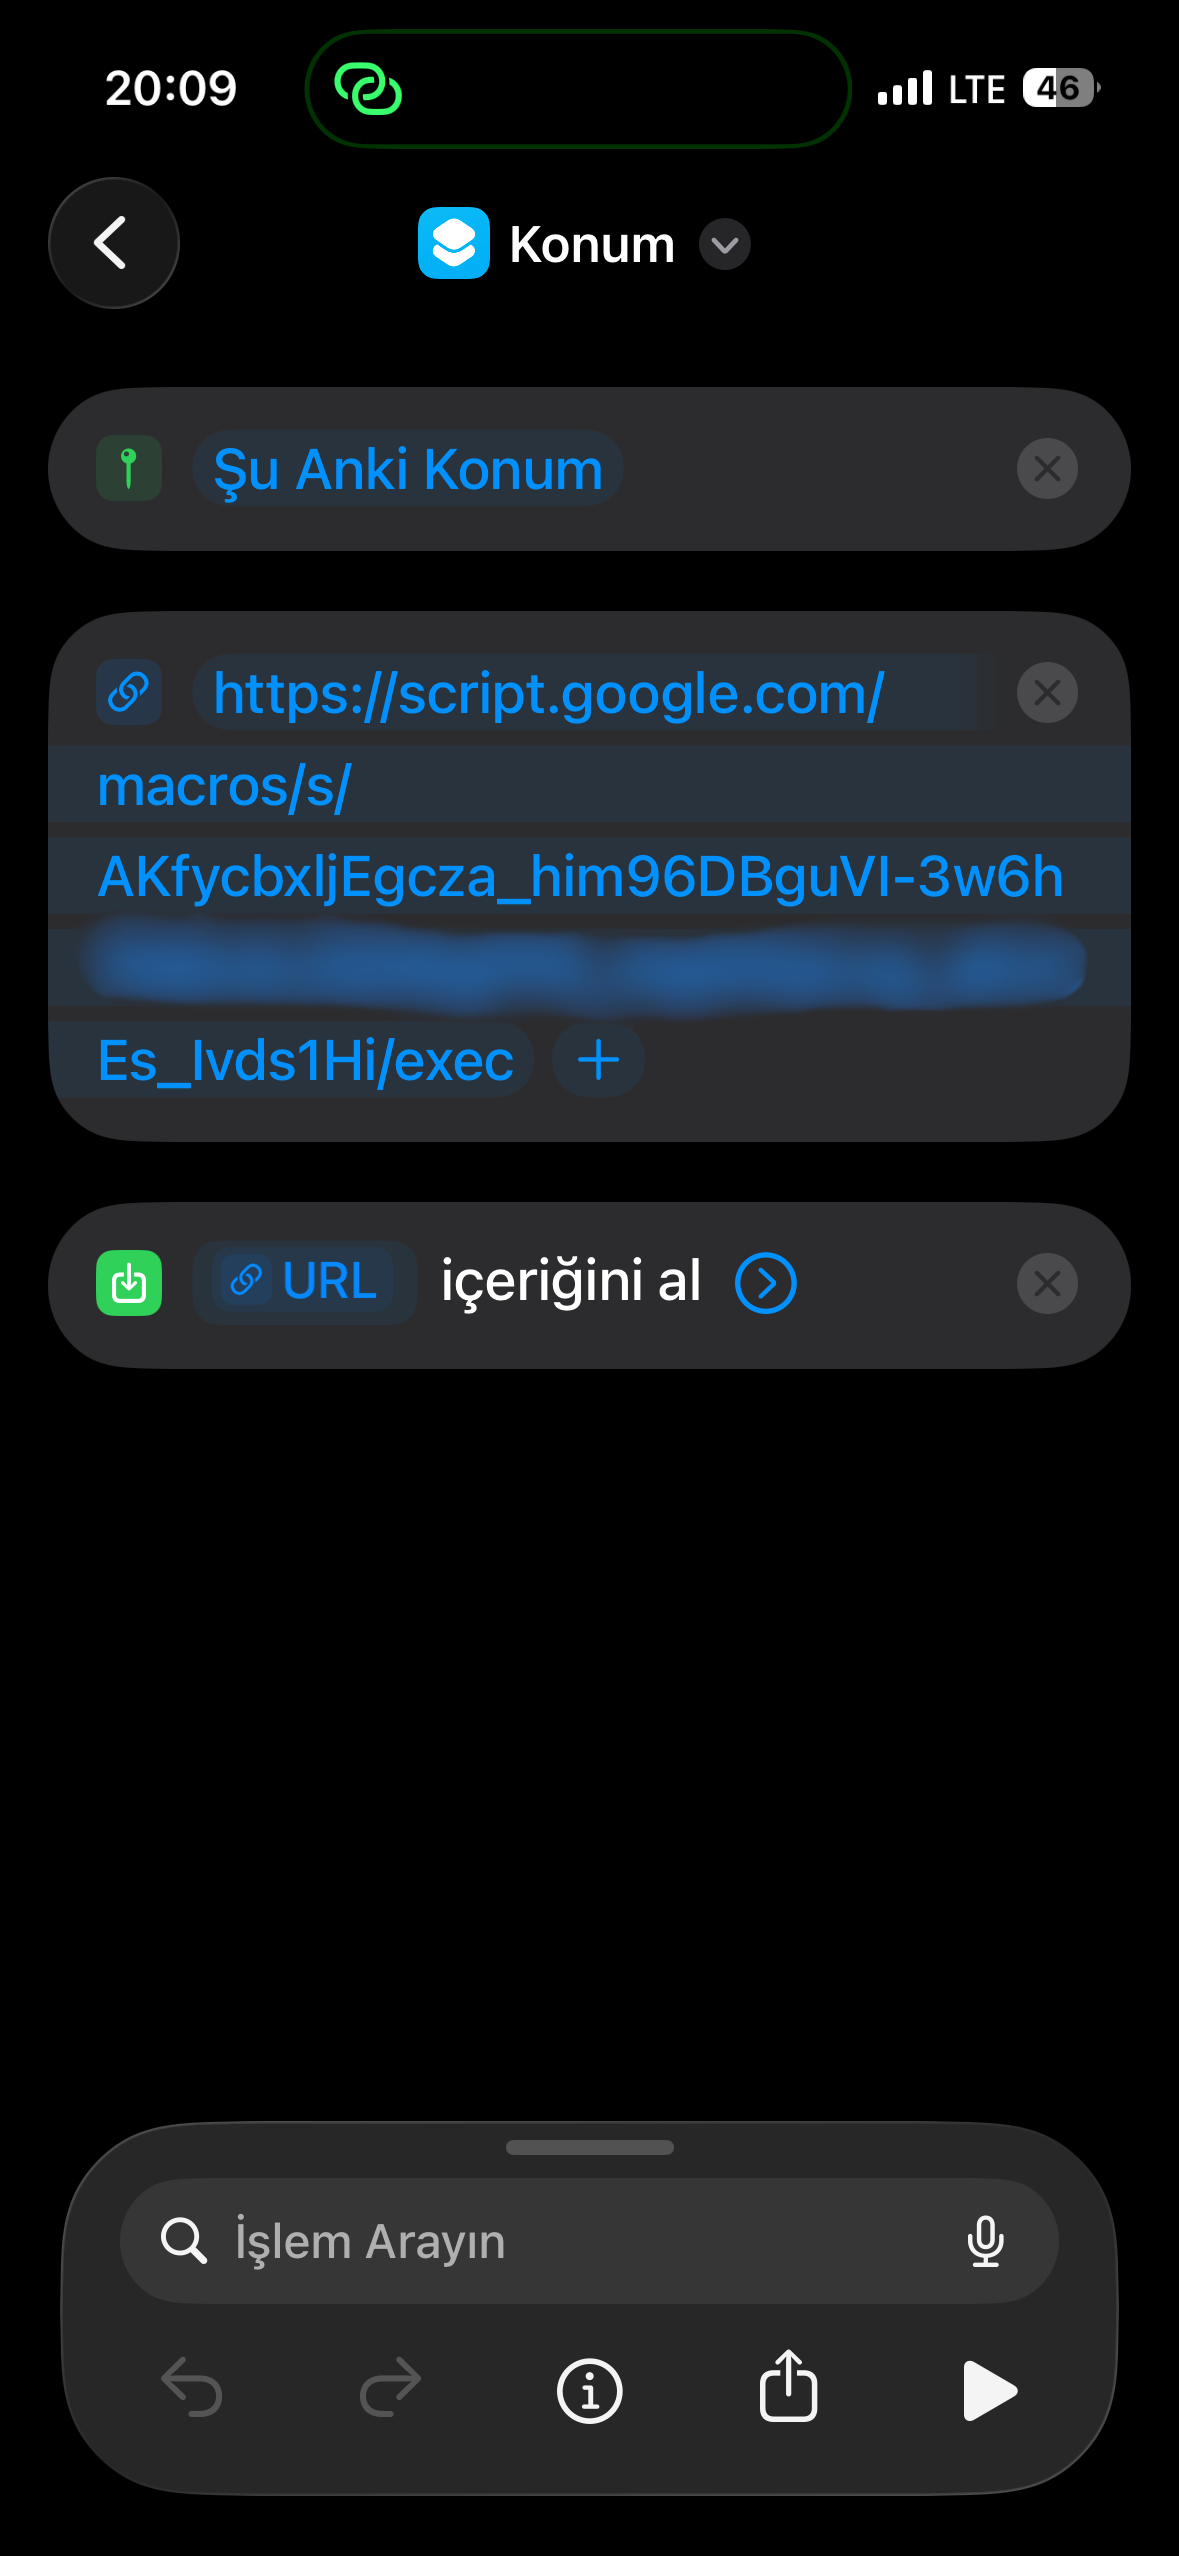
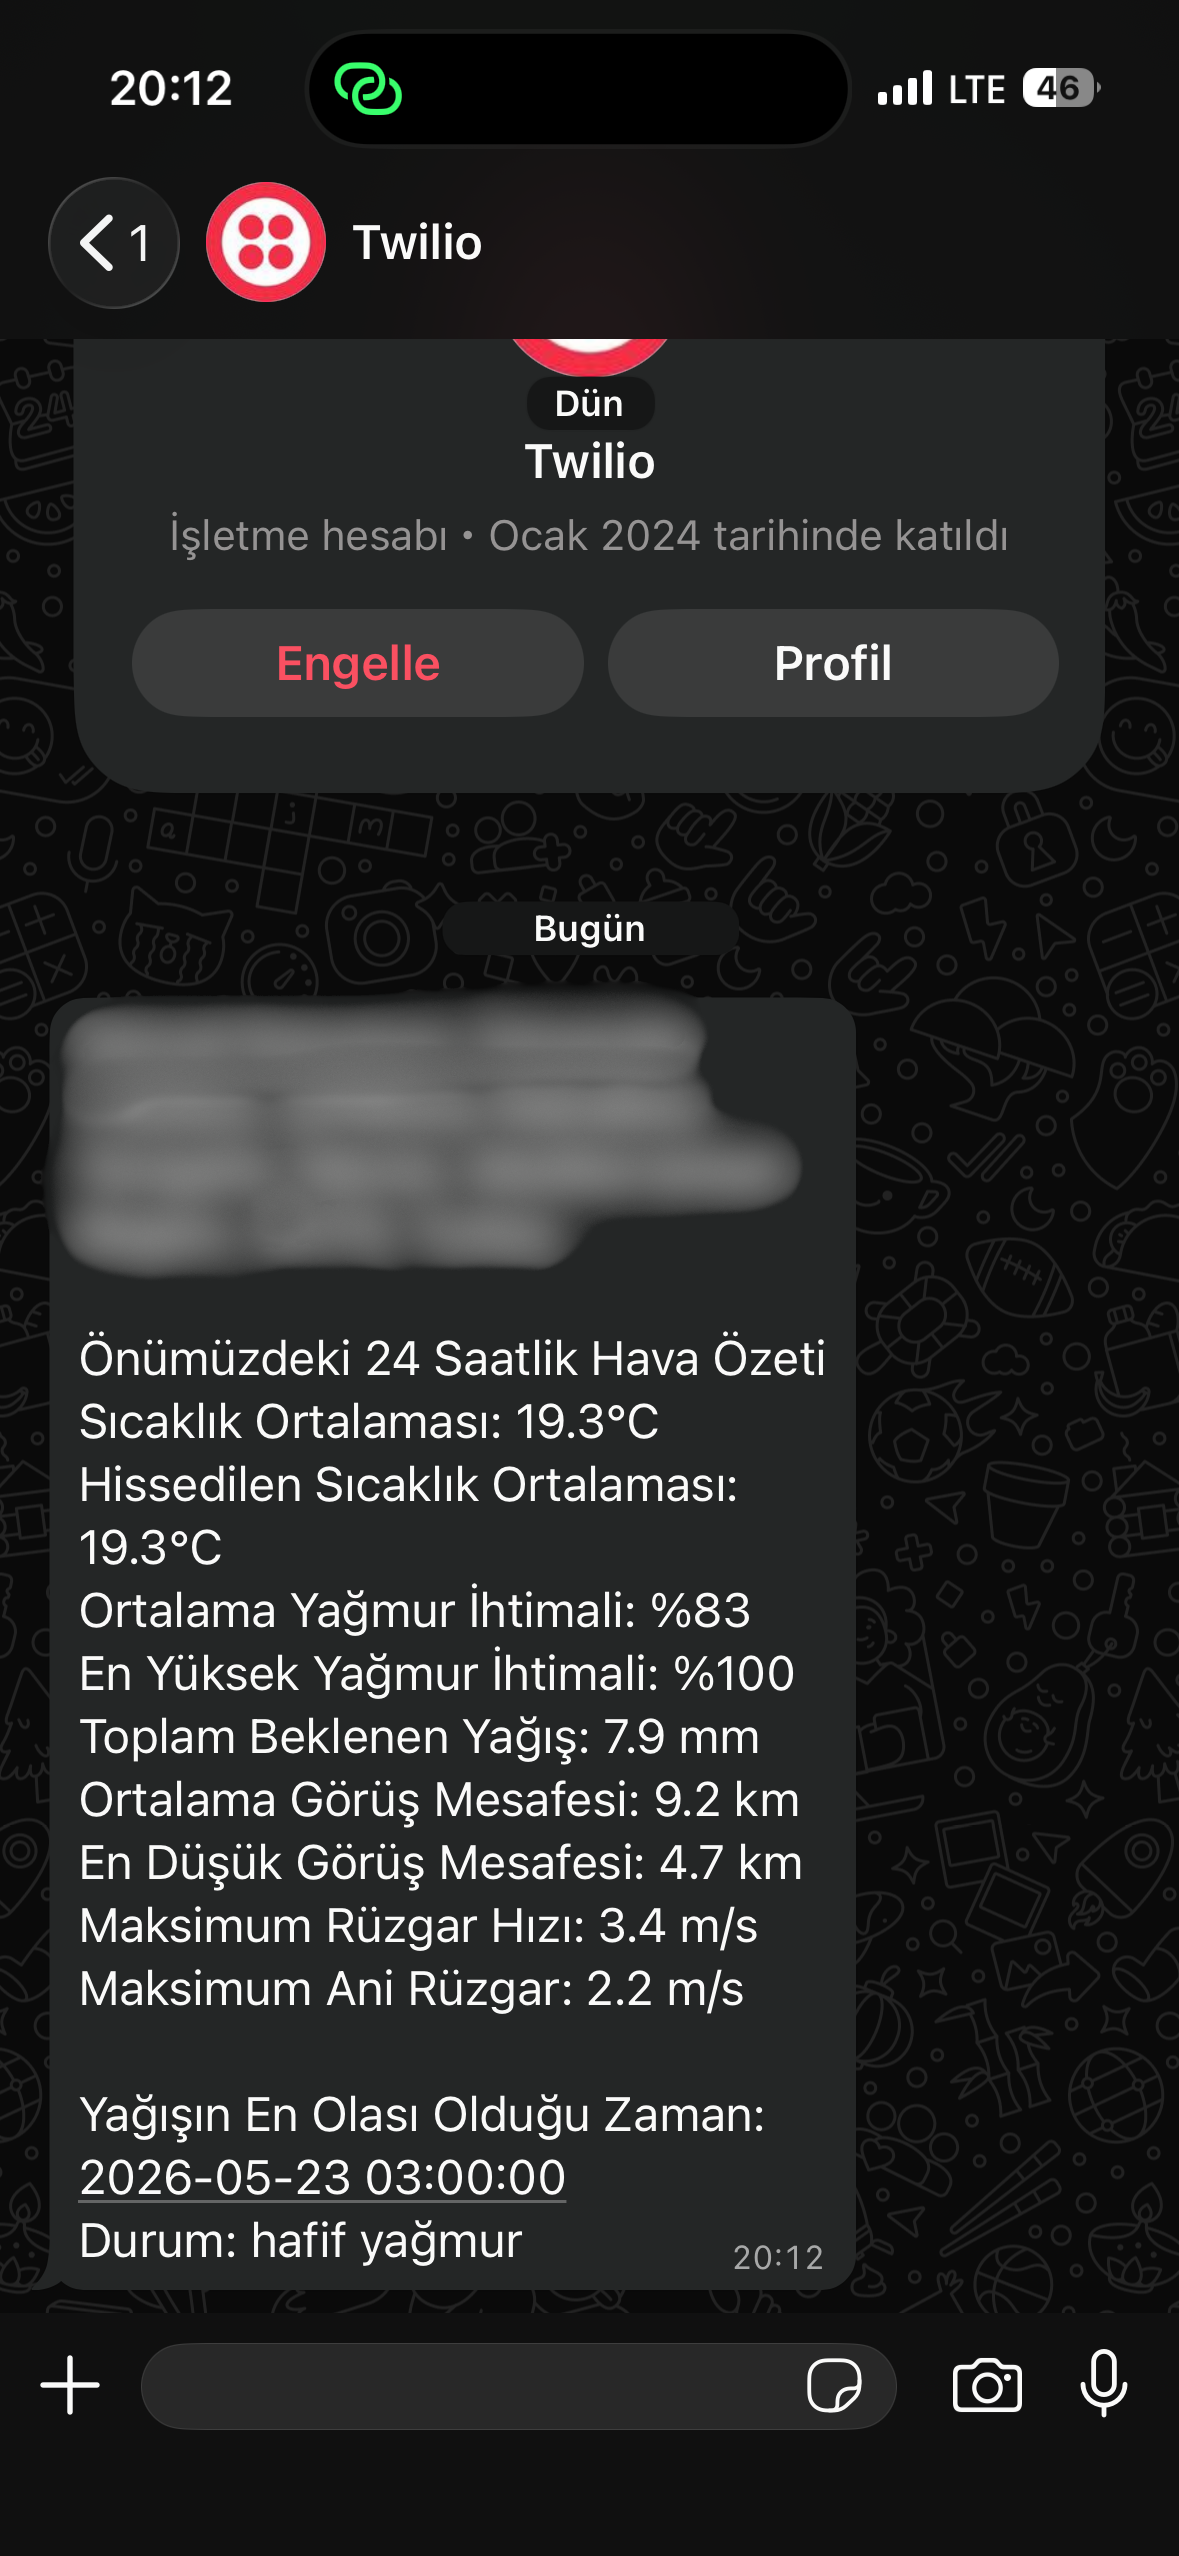
Switch from SVG to PNG phone frames with table layout

diff --git a/README.md b/README.md
@@ -77,10 +77,16 @@ Durum: hafif yağmur
 
 ## Screenshots
 
-<p align="center">
-  <img src="assets/screenshots/iphone-shortcut-frame.svg" alt="iPhone Shortcut location automation" width="280">
-  <img src="assets/screenshots/whatsapp-summary-frame.svg" alt="Weather summary sent through WhatsApp" width="280">
-</p>
+<table align="center">
+  <tr>
+    <th>iPhone Shortcuts</th>
+    <th>WhatsApp Summary</th>
+  </tr>
+  <tr>
+    <td><img src="assets/screenshots/iphone-shortcut-frame.png" alt="iPhone Shortcut location automation" width="280"></td>
+    <td><img src="assets/screenshots/whatsapp-summary-frame.png" alt="Weather summary sent through WhatsApp" width="280"></td>
+  </tr>
+</table>
 
 ## Getting Started
 
@@ -149,9 +155,9 @@ sends it to the configured WhatsApp recipient.
 .
 |-- assets/
 |   |-- screenshots/
-|   |   |-- iphone-shortcut-frame.svg
+|   |   |-- iphone-shortcut-frame.png
 |   |   |-- iphone-shortcut.png
-|   |   |-- whatsapp-summary-frame.svg
+|   |   |-- whatsapp-summary-frame.png
 |   |   `-- whatsapp-summary.png
 |   `-- weather-flow.svg # Static workflow diagram for the README
 |-- logic.py          # Forecast and location summary logic
